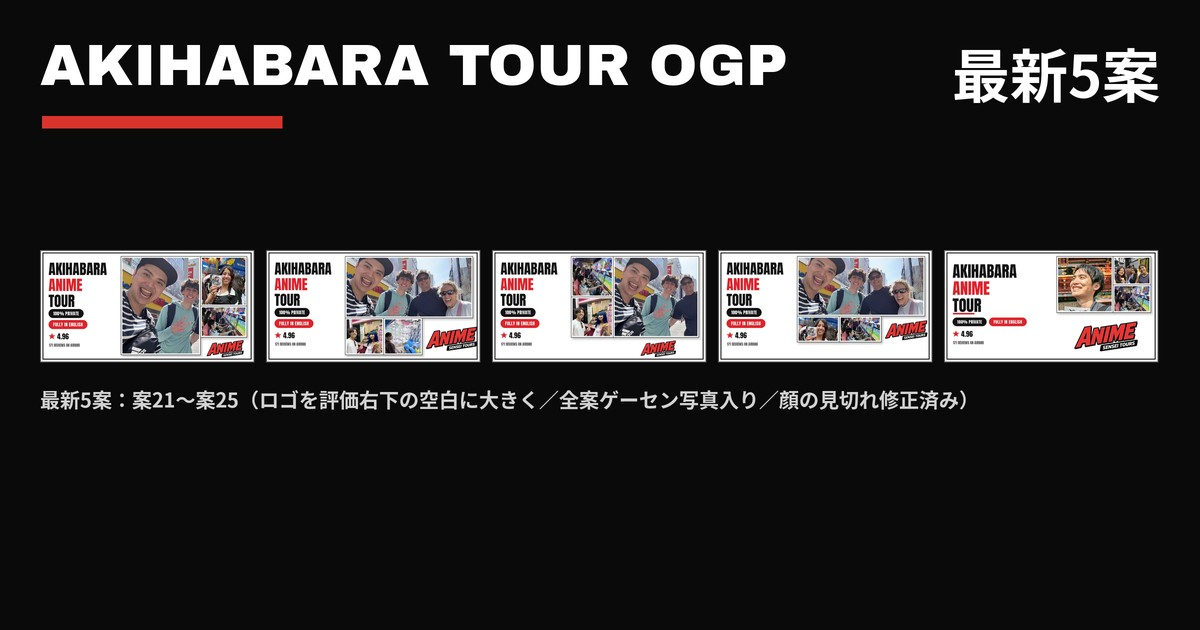
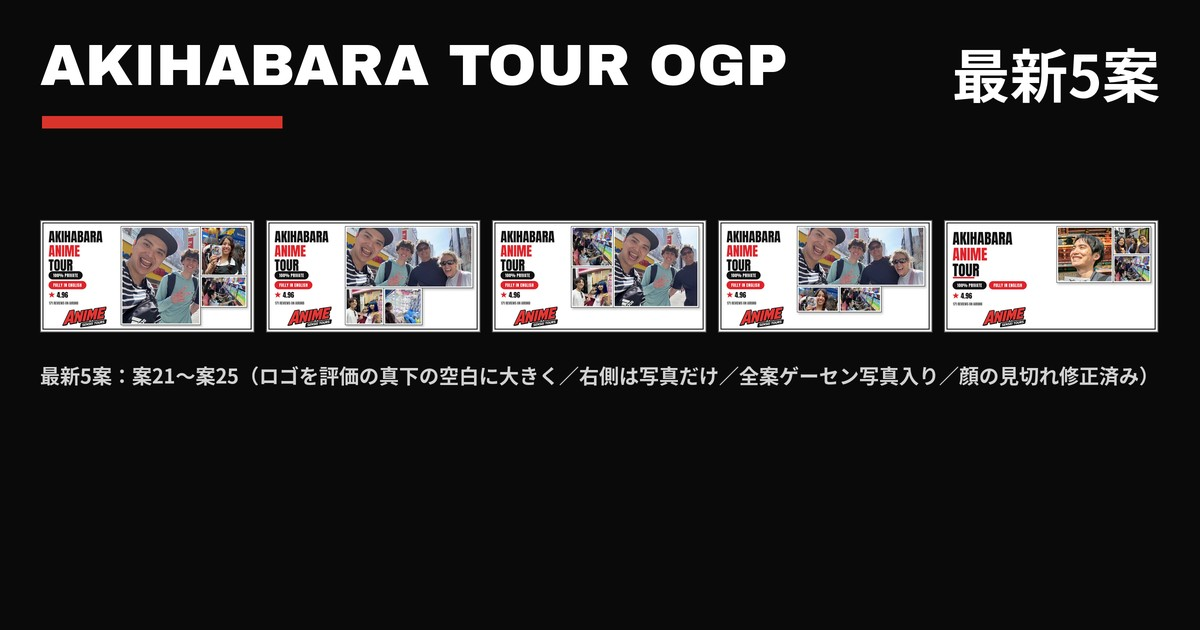
OGP最新5案を差し替え: ロゴを左カラムの評価の真下に大きく配置、右側は写真だけに統一

Changed region(s): [[0.0308, 0.3317, 0.9867, 0.6635]]

diff --git a/akiba-tour-ogp/index.html b/akiba-tour-ogp/index.html
@@ -30,37 +30,37 @@
 <div class="wrap">
   <h1>秋葉原アニメツアーLP<br>OGP画像 最新5案</h1>
   <div class="rule"></div>
-  <p class="lead">対象ページ：<a href="https://www.animesenseijp.com/akihabara-tour/">Akihabara Anime Tour（animesenseijp.com/akihabara-tour/）</a>の OGP 画像、最新の5案（案21〜案25）です。選ばれた案20（グリッド誌面型）を磨いた第5弾で、縦書きの日本語を外し、タイトルを大きく左上に寄せ、各案にガイド本人の写真を1枚入れています。ロゴはレビュー数の右下あたりの空白に大きく配置し直しました。全案にゲーセンで楽しんでいる写真を入れ、写っている人物の顔が見切れていないか全案を点検済みです。全案 1200×630・実写真使用。本番の og:image はまだ差し替えていません。</p>
+  <p class="lead">対象ページ：<a href="https://www.animesenseijp.com/akihabara-tour/">Akihabara Anime Tour（animesenseijp.com/akihabara-tour/）</a>の OGP 画像、最新の5案（案21〜案25）です。選ばれた案20（グリッド誌面型）を磨いた第5弾で、縦書きの日本語を外し、タイトルを大きく左上に寄せ、各案にガイド本人の写真を1枚入れています。ロゴは左カラムの評価（★4.96／171 REVIEWS）の真下の空白に大きく配置し直しました。右側は写真だけにしています。全案にゲーセンで楽しんでいる写真を入れ、写っている人物の顔が見切れていないか全案を点検済みです。全案 1200×630・実写真使用。本番の og:image はまだ差し替えていません。</p>
   <p class="note">番号で選んでください。選ばれた案を本番に設定します。</p>
 
   <section>
     <div class="hd"><span class="num new">案21</span><span class="cap">グリッド正統磨き型</span>
-    <span class="sub">案20の骨格そのままの磨き版。縦書きを外してタイトルを大きく左上に寄せ、ロゴは小写真の下の空白に大きく。大写真はガイド本人の集合自撮り、小写真は缶バッジとゲーセンのレースゲーム。</span></div>
-    <img class="ogp" src="ogp-21b.jpg" alt="案21">
+    <span class="sub">案20の骨格そのままの磨き版。縦書きを外してタイトルを大きく左上に寄せ、ロゴは左カラムの評価の真下に大きく。大写真はガイド本人の集合自撮り、小写真は缶バッジとゲーセンのレースゲーム。</span></div>
+    <img class="ogp" src="ogp-21c.jpg" alt="案21">
   </section>
 
   <section>
     <div class="hd"><span class="num new">案22</span><span class="cap">ワイド主役型</span>
-    <span class="sub">本人の集合自撮りを横長で大きく見せ、下に小写真2枚（クレープ・クレーンゲーム）を並べたワイド構成。賑わいが横に広がるタイプ。ロゴは小写真の右の空白に大きく。</span></div>
-    <img class="ogp" src="ogp-22b.jpg" alt="案22">
+    <span class="sub">本人の集合自撮りを横長で大きく見せ、下に小写真2枚（クレープ・クレーンゲーム）を並べたワイド構成。賑わいが横に広がるタイプ。ロゴは左カラムの評価の真下に大きく。</span></div>
+    <img class="ogp" src="ogp-22c.jpg" alt="案22">
   </section>
 
   <section>
     <div class="hd"><span class="num new">案23</span><span class="cap">センター大写真型</span>
-    <span class="sub">小写真2枚（アーケード・クレープ）を左に縦積みし、本人の集合自撮りを右に大きく置いた構成。大写真の下の空白にロゴを大きく。</span></div>
-    <img class="ogp" src="ogp-23b.jpg" alt="案23">
+    <span class="sub">小写真2枚（アーケード・クレープ）を左に縦積みし、本人の集合自撮りを右に大きく置いた構成。ロゴは左カラムの評価の真下に大きく。</span></div>
+    <img class="ogp" src="ogp-23c.jpg" alt="案23">
   </section>
 
   <section>
     <div class="hd"><span class="num new">案24</span><span class="cap">L字グリッド型</span>
-    <span class="sub">横長の大写真（本人の集合自撮り）の下に小写真2枚（缶バッジ・ゲーセンのレースゲーム）を横並びにしたL字グリッド。写真の帯がL字に流れるタイプ。ロゴは小写真の右の空白に大きく。</span></div>
-    <img class="ogp" src="ogp-24b.jpg" alt="案24">
+    <span class="sub">横長の大写真（本人の集合自撮り）の下に小写真2枚（缶バッジ・ゲーセンのレースゲーム）を横並びにしたL字グリッド。写真の帯がL字に流れるタイプ。ロゴは左カラムの評価の真下に大きく。</span></div>
+    <img class="ogp" src="ogp-24c.jpg" alt="案24">
   </section>
 
   <section>
     <div class="hd"><span class="num new">案25</span><span class="cap">ミニマル余白型</span>
-    <span class="sub">特大タイトルと余白で魅せるミニマル版。写真は右上に小さくまとめ、大写真はガイド本人のポートレート。ピルは横並び、赤ラインのアクセントつき。ロゴは写真の下の空白に大きく。</span></div>
-    <img class="ogp" src="ogp-25b.jpg" alt="案25">
+    <span class="sub">特大タイトルと余白で魅せるミニマル版。写真は右上に小さくまとめ、大写真はガイド本人のポートレート。ピルは横並び、赤ラインのアクセントつき。ロゴは左カラムの評価の真下に大きく。</span></div>
+    <img class="ogp" src="ogp-25c.jpg" alt="案25">
   </section>
 
 </div>
